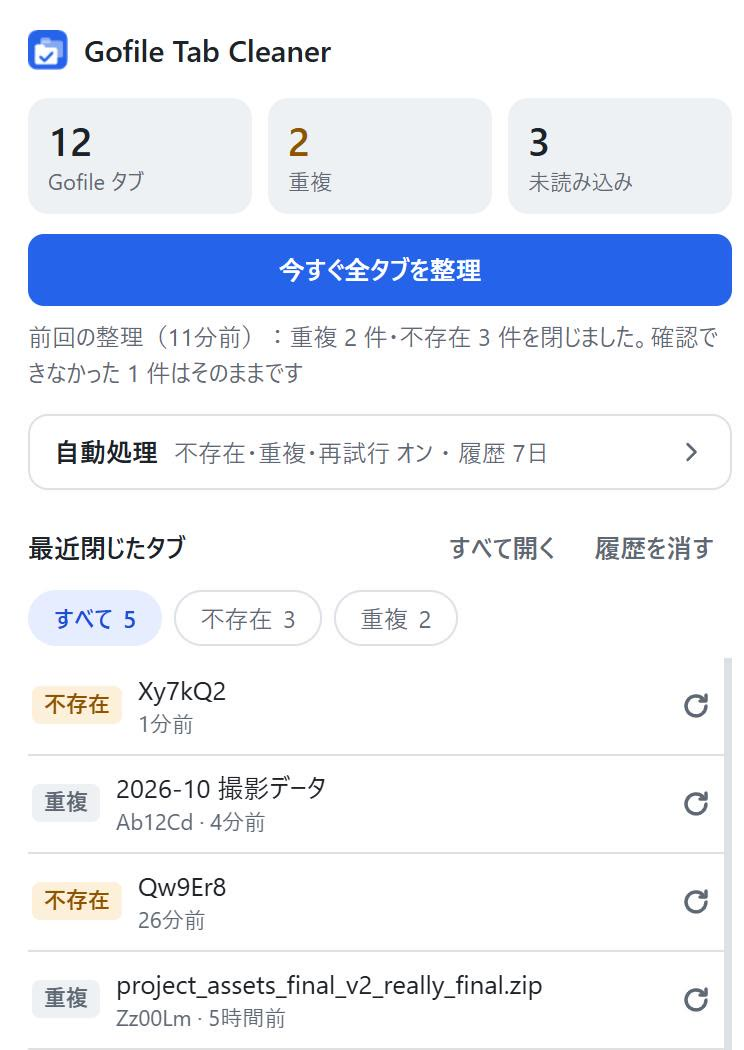
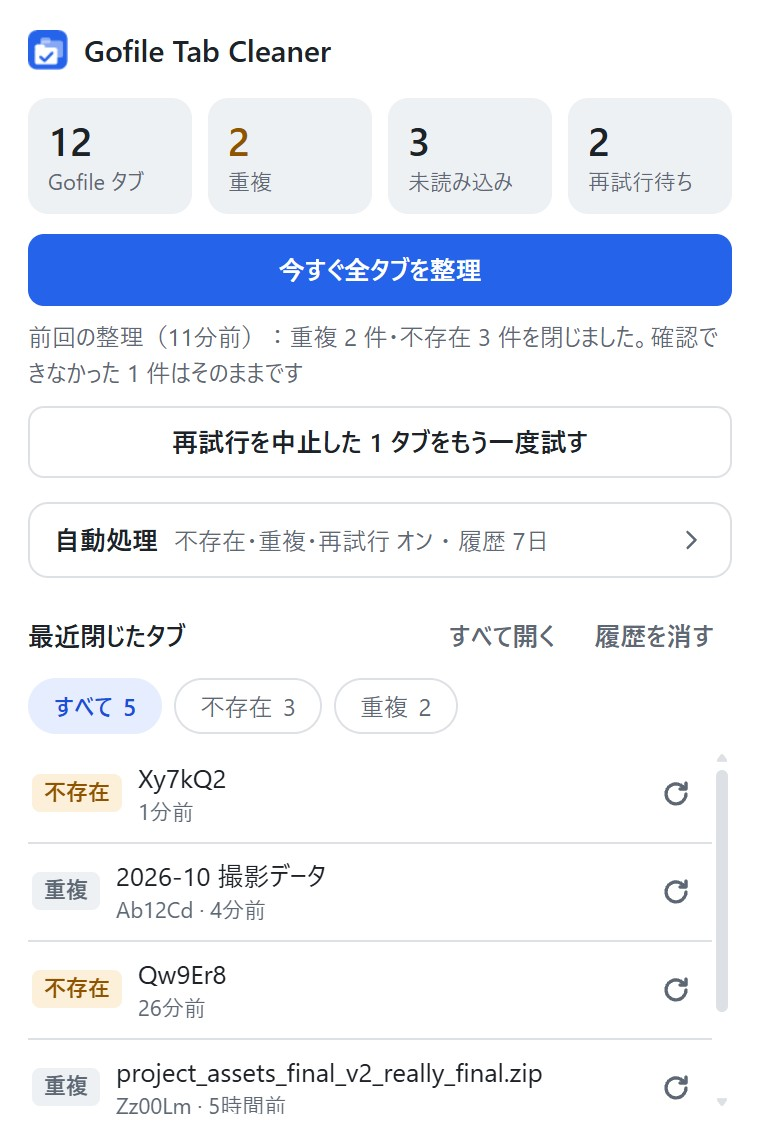
README のスクリーンショットを撮り直し、改善の調査メモを消す
- 「再試行待ち」と「もう一度試す」ボタンが入った今の画面に差し替える
- ボタンが出ている間は履歴を短くし、ポップアップの高さを 600px 以内（571px）に保つ
- 対応を終えた IMPROVEMENTS.md を消す（内容は git の履歴に残る）

diff --git a/popup.css b/popup.css
@@ -154,6 +154,8 @@ h2 { font-size: var(--fs-m); font-weight: 600; margin: 0; }
 .result { font-size: var(--fs-s); color: var(--muted); margin-top: 6px; }
 .result:empty { display: none; }
 .retry-again { margin-top: 8px; }
+/* ボタンが出ている間は、その分だけ履歴を短くしてポップアップの高さを 600px 以内に保つ */
+body:has(.retry-again:not([hidden])) #log { max-height: 184px; }
 
 /* 自動処理（たたんで1行に） */
 .auto { border: 1px solid var(--border); border-radius: var(--r-l); margin-bottom: 14px; }
